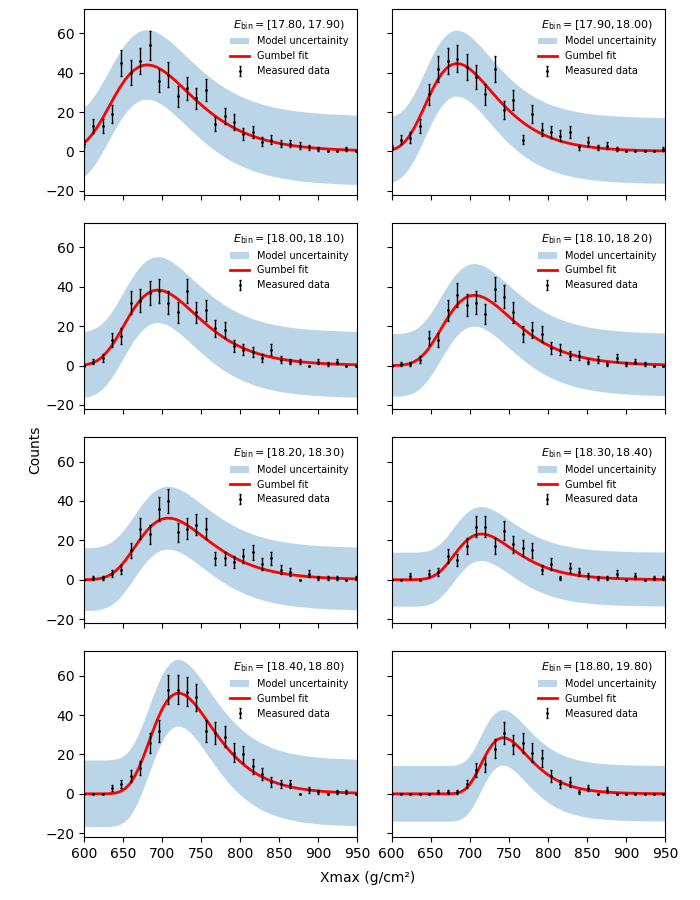
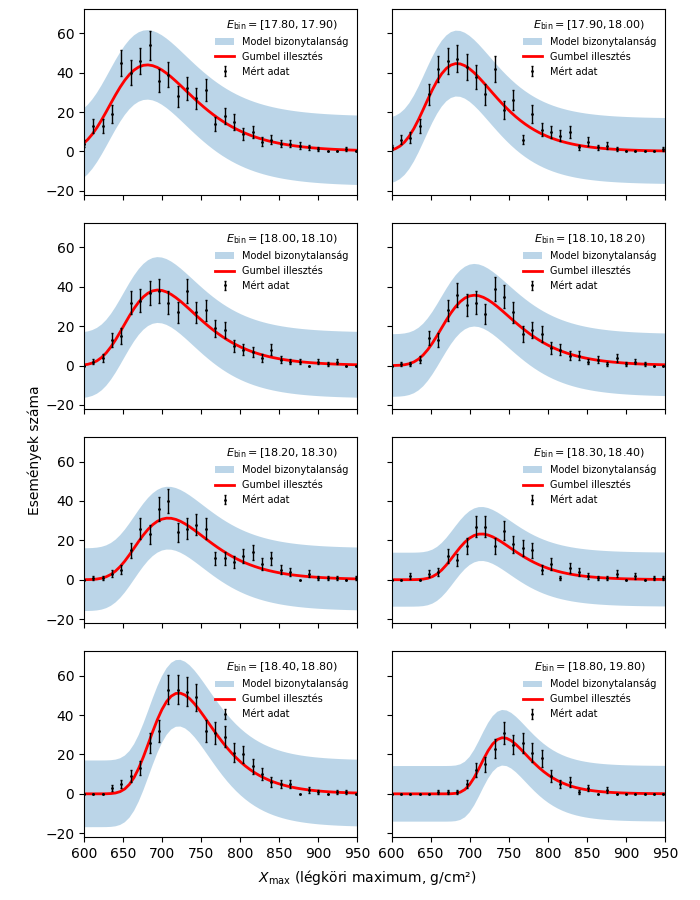
Update plotErrors.py, add full data plots

diff --git a/plotErrors.py b/plotErrors.py
@@ -1,16 +1,19 @@
 import pandas as pd
 import matplotlib.pyplot as plt
 import numpy as np
-#Legend: https://matplotlib.org/stable/api/_as_gen/matplotlib.pyplot.legend.html
-# Fájl beolvasása
+
 df = pd.read_csv(
     "./FittingParameters/ParameterNumbers.txt",
-    sep=r"\s+",     
+    sep=r"\s+",
     na_values=["nan", "NaN"]
 )
-
+df1 = pd.read_csv(
+    "./FittingParameters/Full_data.txt",
+    sep=r"\s+",
+    na_values=["nan", "NaN"]
+)
 lgE = df["lgE"]
-
+print(df1.columns)
 params = [
     ("mean", "mean_err"),
     ("var", "var_err"),
@@ -18,72 +21,70 @@ params = [
     ("kurt", "kurt_err")
 ]
 
-n_params = len(params)
-n_rows = 2
-n_cols = 2
+for param, err in params:
 
-fig, axes = plt.subplots(n_rows, n_cols, figsize=(15, 8), sharex=True)
-axes = axes.flatten()
+    plt.figure(figsize=(8, 6))
 
-for i, (param, err) in enumerate(params):
-    ax = axes[i]
     y = df[param]
     yerr = df[err] if err is not None else None
-    
-    # Mérési pontok
-    ax.errorbar(
+
+    plt.errorbar(
         lgE,
         y,
         yerr=yerr,
         fmt='o' if yerr is not None else 's',
-        elinewidth = 2,
-        label='Auger data'
+        elinewidth=2,
+        label='Auger adat'
     )
+    if param in ["mean", "var"]:
+        plt.errorbar(
+            df1["lgE"],
+            df1[param],
+            yerr=df1[err],
+            fmt='o' if yerr is not None else 's',
+            elinewidth=2,
+            label='Auger eredeti teljes adat'
+        )
 
-    ax.grid(True, linestyle='--', alpha=0.5)
-    ax.legend(fontsize="large", loc=2)
-    ax.tick_params(axis='both', labelsize=14)
+    plt.grid(True, linestyle='--', alpha=0.5)
+    plt.tick_params(axis='both', labelsize=14)
 
     if param == "mean":
-        ax.set_ylabel(r"$\mu$", fontsize=16)
+        plt.ylabel(r"$\mu$", fontsize=16)
+
     if param == "var":
-        ax.set_ylabel(r"$\sigma$", fontsize=16)
-        ax.legend(fontsize="large", loc=1)
-    # Skew és kurt referencia vonalak
+        plt.ylabel(r"$\sigma$", fontsize=16)
+
     if param == "skew":
-        ax.set_ylabel(r"$\gamma_1$", fontsize=16)
-        ax.axhline(y=1.14, color='red', linestyle='--', linewidth=1.5, label=r"$\gamma_1(Gumbel)$=1.14")
-        ax.legend(fontsize="large", loc=2)
+        plt.ylabel(r"$\gamma_1$", fontsize=16)
+        plt.axhline(y=1.14, color='red', linestyle='--', linewidth=1.5,
+                    label=r"$\gamma_1(Gumbel)$=1.14")
+
     if param == "kurt":
-        ax.set_ylabel(r"$\beta_2$", fontsize=16)
-        ax.axhline(y=2.4, color='red', linestyle='--', linewidth=1.5, label=r"$\beta_2(Gumbel)$=2.4")
-        ax.legend(fontsize="large", loc=2)
-    
-    #chi
-    if param == "mean" and 1==0:
-        for j in range(len(lgE)):
-            text = f"χ²/ndf={df['chi2red'][j]:.2f}"  
-            ax.text(
-                lgE[j], y[j] + 0.05 * (max(y)-min(y)),  
-                text,
-                fontsize=8,
-                ha='center'
-            )
-    
-'''
-ax_chi = axes[4]   
-    ax_chi.plot(lgE, df["chi2red"], 'o')
-    ax_chi.set_yticks(np.arange(0, 2, 0.2))
-    ax_chi.set_xlabel("lgE")
-    ax_chi.set_ylabel("χ²/ndf")
-    ax_chi.set_title("χ²/ndf vs lgE")
-    ax_chi.grid(True, linestyle='--', alpha=0.5)
-    axes[5].axis("off")  
-'''
-# X
-for ax in axes[n_cols:]:  
-    ax.set_xlabel(r"$\log(E_{proton})$", fontsize=16)
+        plt.ylabel(r"$\beta_2$", fontsize=16)
+        plt.axhline(y=2.4, color='red', linestyle='--', linewidth=1.5,
+                    label=r"$\beta_2(Gumbel)$=2.4")
+
+    plt.xlabel(r"$\log(E_{proton})$", fontsize=16)
+    if param != "var":
+        plt.legend(fontsize="large", loc=2)
+    else:
+        plt.legend(fontsize="large")
+    plt.tight_layout()
+    plt.savefig(f"./figs/{param}_vs_lgE.png")
+    plt.show()
+
+plt.figure(figsize=(8, 6))
+
+plt.plot(lgE, df["chi2red"], 'o', label="χ²/ndf")
+plt.axhline(y=1, color='red', linestyle='--', linewidth=1.5)
+
+plt.yticks(np.arange(0, 2, 0.2))
+plt.xlabel("lgE", fontsize=16)
+plt.ylabel("χ²/ndf", fontsize=16)
+plt.grid(True, linestyle='--', alpha=0.5)
+plt.legend()
 
 plt.tight_layout()
-plt.savefig("./figs/newest_simpler_estimator_parameters.png")
+plt.savefig("./figs/chi2_vs_lgE.png")
 plt.show()

diff --git a/curvefittest.py b/curvefittest.py
@@ -157,16 +157,16 @@ for i in range(n_files):
 
     #Modell bizonytalansági sáv, fill_between a görbe körüli dy-t tölti ki
     #0,3 áttetszőség, zorder = kirajzolási sorrend, kisebb háttérben
-    ax.fill_between(x_model, y_model - dy, y_model + dy, alpha=0.3, zorder=1, label='Model uncertainity')
+    ax.fill_between(x_model, y_model - dy, y_model + dy, alpha=0.3, zorder=1, label='Model bizonytalanság')
 
     #Illesztett Gumbel-eloszlás kirajzolása folytonos görbeként
     #Piros szín, 2-es vastagságú vonal, zorder = 2, bizonytalansági sáv fülé kerül
-    ax.plot(x_model, y_model, color='red', linewidth=2, zorder=2, label='Gumbel fit')
+    ax.plot(x_model, y_model, color='red', linewidth=2, zorder=2, label='Gumbel illesztés')
 
     #Mért adatok kirajzolása hibasávokkal
     #Pont jelölés, markersize = kisméretű pontok, capsize = hibavonal végének mérete
     #Elinewidth = hibavonal vastagsága, zorder = 3, legfelül jelenik meg
-    ax.errorbar(x, y, yerr=yerr, fmt='o', markersize=1, capsize=1, elinewidth=1, color='black', zorder=3, label='Measured data')
+    ax.errorbar(x, y, yerr=yerr, fmt='o', markersize=1, capsize=1, elinewidth=1, color='black', zorder=3, label='Mért adat')
     
     #Khi-négyzet inícializálása
     chi2 = 0
@@ -241,10 +241,10 @@ for ax in axes[-2:]:
     ax.set_xticks(np.arange(600, 951, 50))
 
 # Alsó x-tengely felirat kicsit feljebb 
-fig.text(0.525, 0.02, "Xmax (g/cm²)", ha='center')
+fig.text(0.525, 0.02, r"$X_{\mathrm{max}}$ (légköri maximum, g/cm²)", ha='center')
 
 #y-tengely felirat
-fig.text(0.04, 0.5, "Counts", va='center', rotation='vertical')
+fig.text(0.04, 0.5, "Események száma", va='center', rotation='vertical')
 #Margók, felíratok ne lógjanak bele a számokba
 fig.subplots_adjust(top=0.99, bottom=0.07, left=0.12, right=0.95)
 #Ábra mentése a ./figs/ mappába, newest_simpler_curvefit néven, png formátumban
